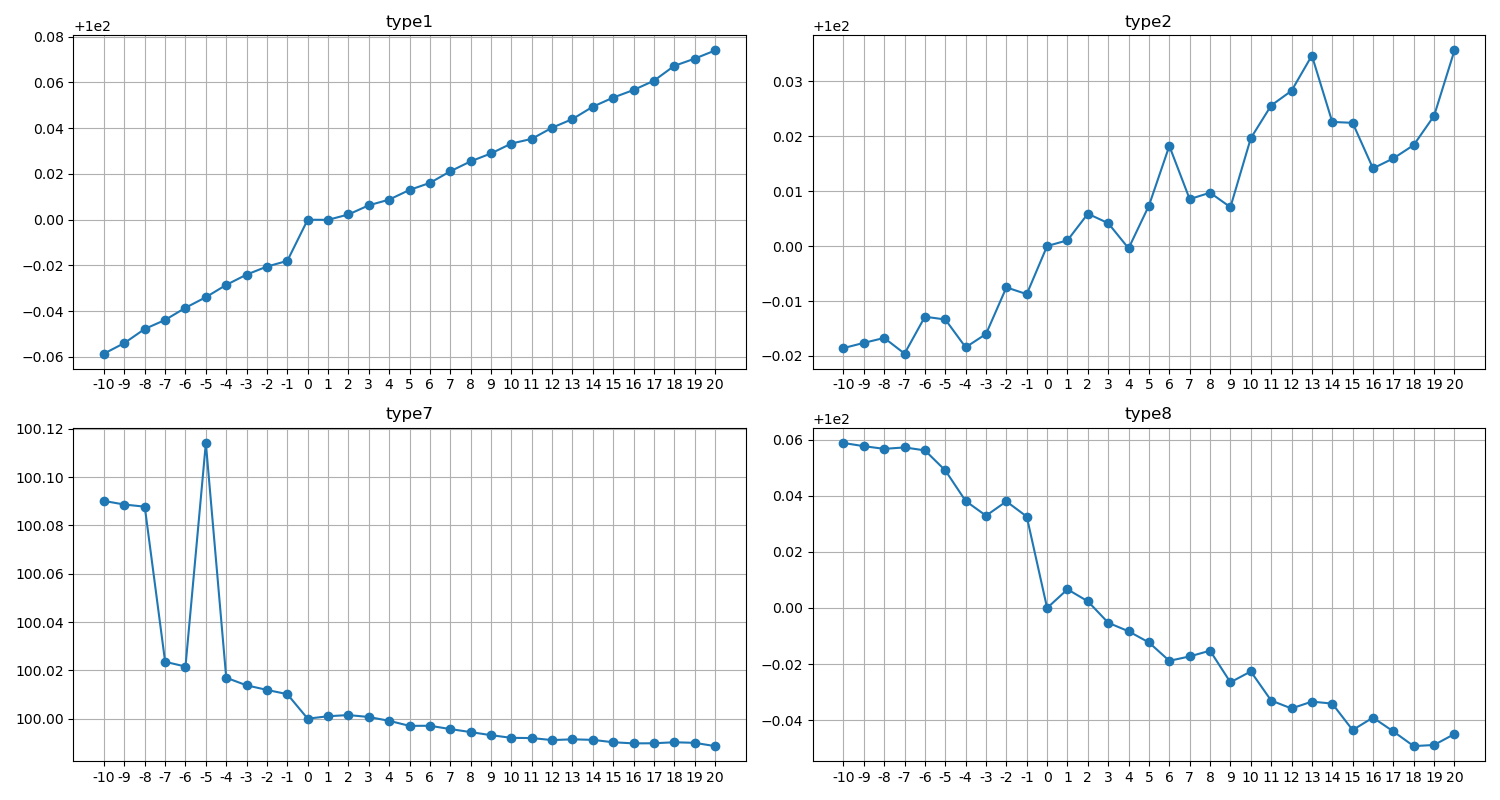
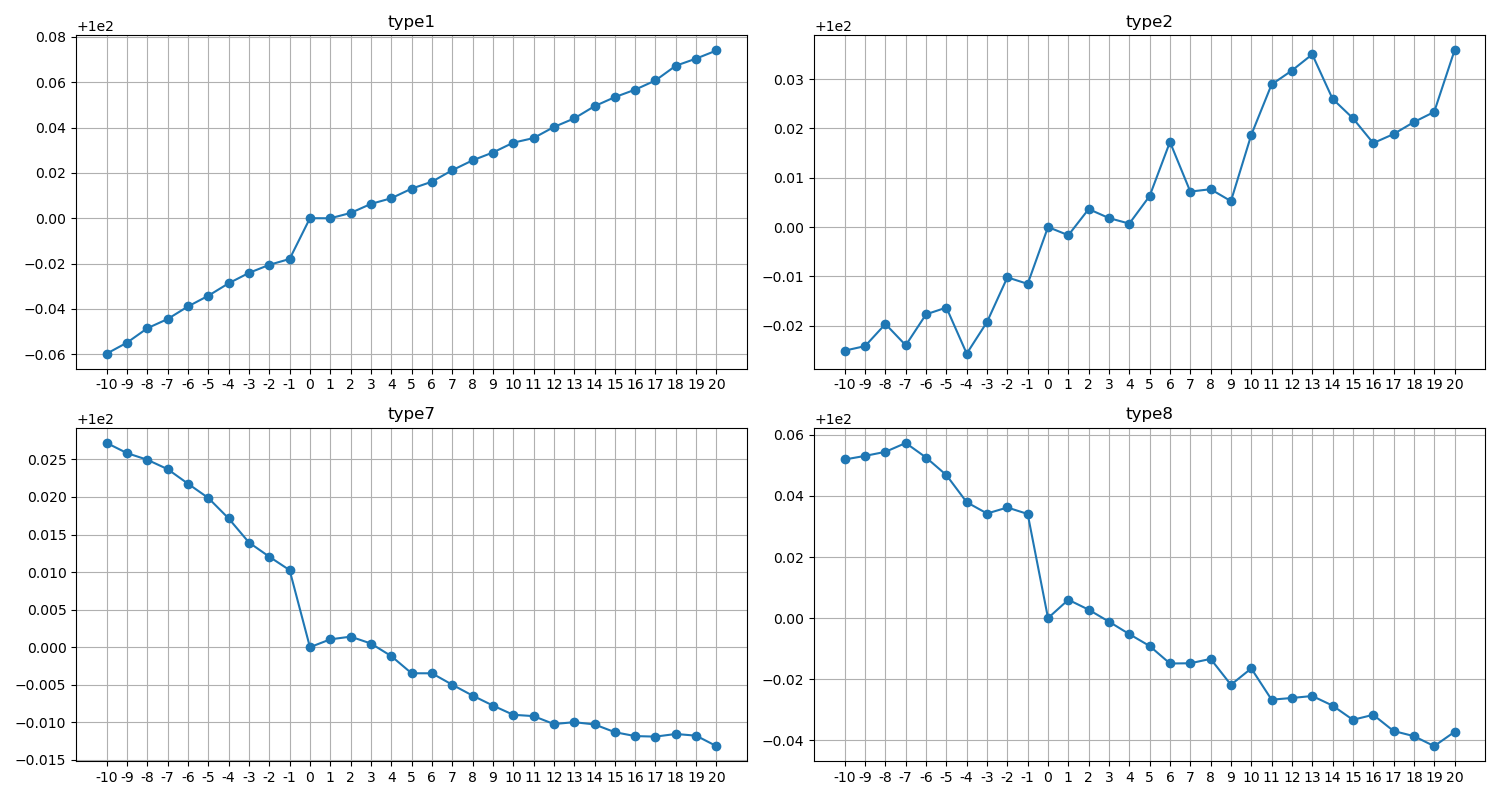
bing

diff --git a/fun_fac.py b/fun_fac.py
@@ -1,6 +1,7 @@
 import os
 import pandas as pd
 import numpy as np
+from scipy.odr import odr_error
 from scipy.stats import pearsonr, spearmanr
 from tqdm import tqdm
 
@@ -15,12 +16,25 @@ def get_files_by_subfolder(folder_path,n):
     subfolders = [f.path for f in os.scandir(folder_path) if f.is_dir()]
     subfolders.sort()
     all_dataframes = []
-    for root in subfolders[:2]:
+    # 遍历一定的天数
+    for root in subfolders[0:1]:
         files_in_subfolder = [os.path.join(root,filename) for filename in os.listdir(root)]
         files_in_subfolder.sort()
-        files_in_subfolder = [pd.read_json(path) for path in files_in_subfolder[n:n+1]]
-        all_dataframes.extend(files_in_subfolder)
+        files_in_subfolder_1 = [cut_time(pd.read_json(path)) for path in files_in_subfolder[n:n+1]]
+        all_dataframes.extend(files_in_subfolder_1)
     df = pd.concat(all_dataframes,axis=0)
+    return df
+
+def cut_time(df):
+    # 对传进来的数据集，去掉集合竞价阶段
+    if 'timestamp' in df.columns:
+        start_time = df.iloc[0]['timestamp'] + np.timedelta64(910, 's')
+        end_time = df.iloc[-1]['timestamp'] + np.timedelta64(-210, 's')
+        df = df[(df['timestamp'] > start_time) & (df['timestamp'] < end_time)]
+    else:
+        start_time = df.iloc[0]['market_time'] + np.timedelta64(910, 's')
+        end_time = df.iloc[-1]['market_time'] + np.timedelta64(-210, 's')
+        df = df[(df['market_time'] > start_time) & (df['market_time'] < end_time)]
     return df
 
 def cal_wei_price(df):
@@ -35,24 +49,26 @@ def cal_wei_price(df):
         weighted_price=('trade_value', 'sum'),
         total_volume=('trade_volume', 'sum')).reset_index()
     result['weighted_price'] = result['weighted_price'] / result['total_volume']
-
-    # # 输出结果
     return result
 
 def cal_type(df):
     """
     计算每个挂单的类型
     input:
-    series: 挂单数据，包含挂单类型，挂单价，挂单量，快照买，快照卖
+    order_snap_df联合df
     output:
-    series: 该挂单的类型，包含4种类型或者‘other’
+    order_snap_df,添加了生成对应类型的列
     """
     cur_flag = df['flag']
     cur_price = df['price']
     cur_vol = df['volume']
+
     bid_1 = df['buy_delegations'].apply(lambda x: x[0]['price'])
+    df['bid_1']=bid_1
     bid_vol_1 = df['buy_delegations'].apply(lambda x: x[0]['volume'])
+
     ask_1 = df['sell_delegations'].apply(lambda x: x[0]['price'])
+    df['ask_1']=ask_1
     ask_vol_1 = df['sell_delegations'].apply(lambda x: x[0]['volume'])
 
     # 创建条件判断
@@ -69,12 +85,12 @@ def cal_type(df):
         ['type1', 'type2', 'type7', 'type8'],
         default='other'  # 如果都不满足条件，返回 'other'
     )
-
     return df
 
 def cal_win(row,df_1,t):
     """
     对每个类型的挂单，计算特定窗口的加权交易价
+    apply 操作，时间运行状态
     input:
     series: 挂单数据
     df_1: 已经计算好教权交易价的成交数据
@@ -96,37 +112,47 @@ def gerner_win(df_1,df_2,df_3):
     df_1:trade
     df_2:snap
     df_3:order
+
     output:
     四种类型的交易价时间窗口
     """
-    start_time = df_3.iloc[0]['market_time']+np.timedelta64(910, 's')
-    end_time = df_3.iloc[-1]['market_time']+np.timedelta64(-210, 's')
+    # start_time = df_3.iloc[0]['market_time']+np.timedelta64(910, 's')
+    # end_time = df_3.iloc[-1]['market_time']+np.timedelta64(-210, 's')
+
     df_3 = df_3.sort_values(by=['code','market_time'],ascending=[True,True])
     order_snap_df = pd.merge(df_3,df_2,on=['market_time','code'],how='left')
+    # 对于部分数据集可能开盘出现nan
     order_snap_df.ffill(inplace=True)
+    order_snap_df.bfill(inplace=True)
     order_snap_df.dropna(subset=['buy_delegations'],inplace=True)
+    order_snap_df.dropna(subset=['sell_delegations'],inplace=True)
+    # 部分数据集有快照字段，但没有具体的数据
     order_snap_df['buy_delegations'] = order_snap_df['buy_delegations'].apply(lambda x: x if 'price' in x[0] else np.nan)
+    order_snap_df['sell_delegations'] = order_snap_df['sell_delegations'].apply(lambda x: x if 'price' in x[0] else np.nan)
     order_snap_df.dropna(subset=['buy_delegations'],inplace=True)
+    order_snap_df.dropna(subset=['sell_delegations'],inplace=True)
     order_snap_df = order_snap_df.reset_index(drop=True)
-
     # 进行类型划分
-    # order_snap_df['type_agg'] = order_snap_df.progress_apply(cal_type,axis=1)
     order_snap_df = cal_type(order_snap_df)
+    for k in range(-10,21):
+        order_snap_df[str(k) + 'ask_1'] = order_snap_df['ask_1'].shift(-k)
+        order_snap_df[str(k) + 'bid_1'] = order_snap_df['bid_1'].shift(-k)
     df_3 = order_snap_df[order_snap_df['type_agg']!='other']
     df_3 = df_3.copy()
-    df_3 = df_3[(df_3['market_time']>start_time) & (df_3['market_time']<end_time)]
+    # 对于交易数据生成每个时刻的交易价，返回的是分组之后的 df
     df_1 = cal_wei_price(df_1)
     # 时间窗口生成
     for t in tqdm(range(-10,21)):
-        # if df_3.apply(cal_win, axis=1, args=(df_1,t)).empty:
-        #     # 该挂单对应时间没有交易信息, 返回空 dataframe
-        #     df_3.loc[:,str(t)] = pd.Series([np.nan for _ in range(df_3.shape[0])])
-        # else:
-        # tqdm.pandas()
-        df_3.loc[:,str(t)] = df_3.apply(cal_win, axis=1, args=(df_1,t))
+        if df_3.apply(cal_win, axis=1, args=(df_1,t)).empty:
+            df_3.loc[:,str(t)] = pd.Series([np.nan for _ in range(df_3.shape[0])])
+        else:
+            df_3.loc[:,str(t)] = df_3.apply(cal_win, axis=1, args=(df_1,t))
 
-    time_win = ['code','market_time']
-    time_win.extend( [str(i) for i in range(-10,21)])
+    time_win = ['code','market_time','ask_1','bid_1']
+    time_win.extend([str(i) for i in range(-10,21)])
+    time_win.extend([str(i)+'bid_1' for i in range(-10, 21)])
+    time_win.extend([str(i)+'ask_1'for i in range(-10, 21)])
+    # 在此之后采取分组处理
     type1_win = df_3[df_3['type_agg']=='type1'][time_win]
     type2_win = df_3[df_3['type_agg']=='type2'][time_win]
     type7_win = df_3[df_3['type_agg']=='type7'][time_win]
@@ -137,10 +163,25 @@ def gerner_win(df_1,df_2,df_3):
     type_7_gr = type7_win.groupby(['code','market_time']).min()
     type_8_gr = type8_win.groupby(['code','market_time']).min()
 
+    # 计算回复率窗口
+    type_1_gr = return_rate_1(type_1_gr)
+    type_2_gr = return_rate_1(type_2_gr)
+    type_7_gr = return_rate_2(type_7_gr)
+    type_8_gr = return_rate_2(type_8_gr)
+
+    cut_columns = [str(t) for t in range(-10,21)]
+    cut_columns.extend(['rr' + str(t) for t in range(1, 16)])
+    type_1_gr= type_1_gr[cut_columns]
+    type_2_gr= type_2_gr[cut_columns]
+    type_7_gr= type_7_gr[cut_columns]
+    type_8_gr= type_8_gr[cut_columns]
+    # 正则化过程
     type_1_gr = norm(type_1_gr)
     type_2_gr = norm(type_2_gr)
     type_7_gr = norm(type_7_gr)
     type_8_gr = norm(type_8_gr)
+
+
     type_1_avg_1 = type_1_gr.mean(axis = 0)
     type_2_avg_1 = type_2_gr.mean(axis = 0)
     type_7_avg_1 = type_7_gr.mean(axis = 0)
@@ -177,12 +218,30 @@ def cal_cor(df):
         cor.append(spearmanr(vec_1, vec_2))
     return cor
 
-def return_rate(df):
+def return_rate_1(df):
     """
     输入:
-    df:每一列对应一直股票一天的时间窗口
-       每一行对应一个时刻所有股票所有日期的数据
+    df:挂单数据,包含每个窗口的买一卖一价
     输出:
     return_rate:list,回报率列表
     """
-    
+    for k in range(1,16):
+        buy = df[str(k)+'bid_1']
+        sell = df['0ask_1']
+        rr = sell/buy -1
+        df['rr' + str(k)] = rr
+    return df
+
+def return_rate_2(df):
+    """
+    输入:
+    df:挂单数据,包含每个窗口的买一卖一价
+    输出:
+    df:增加汇报率的列，增加了 15列
+    """
+    for k in range(1,16):
+        sell = df[str(k)+'ask_1']
+        buy = df['0bid_1']
+        rr = sell/buy -1
+        df['rr' + str(k)] = rr
+    return df

diff --git a/test_fac.py b/test_fac.py
@@ -9,11 +9,12 @@ from multiprocessing import Pool
 import matplotlib.pyplot as plt
 from tqdm import tqdm
 from fun_fac import *
+import sys
+file_paths = sys.argv[1:]
 
-
-folder_path_1 = 'quote/trade_in_hour'
-folder_path_2 = 'quote/snap_in_hour'
-folder_path_3 = 'quote/order_in_hour'
+# folder_path_1 = 'quote/trade_in_hour'
+# folder_path_2 = 'quote/snap_in_hour'
+# folder_path_3 = 'quote/order_in_hour'
 
 "测试"
 if __name__ == "__main__":
@@ -21,25 +22,27 @@ if __name__ == "__main__":
     res2_list = []
     res7_list = []
     res8_list = []
-    # 天数
-    for n in tqdm(range(0,2)):
-        df_1 = get_files_by_subfolder(folder_path_1,n)
-        df_2 = get_files_by_subfolder(folder_path_2,n)
-        df_3 = get_files_by_subfolder(folder_path_3,n)
+    # 两只股票
+    df_1 = pd.read_json(file_paths[0])
+    df_2 = pd.read_json(file_paths[1])
+    df_3 = pd.read_json(file_paths[2])
+        # df_1 = get_files_by_subfolder(folder_path_1,n)
+        # df_2 = get_files_by_subfolder(folder_path_2,n)
+        # df_3 = get_files_by_subfolder(folder_path_3,n)
 
-        list_1 = ['code','timestamp','trade_price','trade_volume','trade_value']
-        list_2 = ['market_time', 'code','buy_delegations','sell_delegations']
-        list_3 = ['code','flag','price', 'volume','market_time']
-        df_1 = df_1[list_1]
-        df_2 = df_2[list_2]
-        df_3 = df_3[list_3]
+    list_1 = ['code','timestamp','trade_price','trade_volume','trade_value']
+    list_2 = ['market_time', 'code','buy_delegations','sell_delegations']
+    list_3 = ['code','flag','price', 'volume','market_time']
+    df_1 = df_1[list_1]
+    df_2 = df_2[list_2]
+    df_3 = df_3[list_3]
 
-        res1, res2, res7, res8 = gerner_win(df_1,df_2,df_3)
-        res1_list.append(res1)
-        res2_list.append(res2)
-        res7_list.append(res7)
-        res8_list.append(res8)
-    print(res1_list)
+    res1, res2, res7, res8 = gerner_win(df_1,df_2,df_3)
+    res1_list.append(res1)
+    res2_list.append(res2)
+    res7_list.append(res7)
+    res8_list.append(res8)
+
     res1_df = pd.concat(res1_list,axis=1)
     res2_df = pd.concat(res2_list,axis=1)
     res7_df = pd.concat(res7_list,axis=1)
@@ -48,14 +51,12 @@ if __name__ == "__main__":
     cor_2 = cal_cor(res2_df)
     cor_7 = cal_cor(res7_df)
     cor_8 = cal_cor(res8_df)
-    print(cor_1)
     type_1_avg_2 = res1_df.mean(axis=1)
     type_2_avg_2 = res2_df.mean(axis=1)
     type_7_avg_2 = res7_df.mean(axis=1)
     type_8_avg_2 = res8_df.mean(axis=1)
 
-    
-    series_list = [type_1_avg_2, type_2_avg_2, type_7_avg_2, type_8_avg_2]
+    series_list = [type_1_avg_2[:31], type_2_avg_2[:31], type_7_avg_2[:31], type_8_avg_2[:31]]
     fig,axes = plt.subplots(2,2,figsize=(15,8))
     for i,(ax,s) in enumerate(zip(axes.flat,series_list)):
         ax.plot(s.index,s.values,marker='o')
